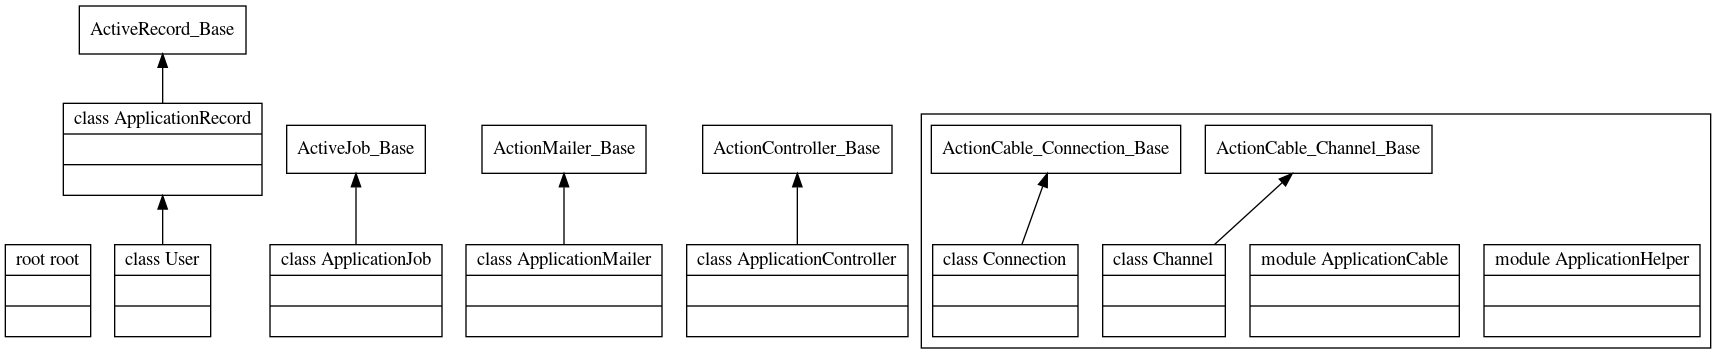
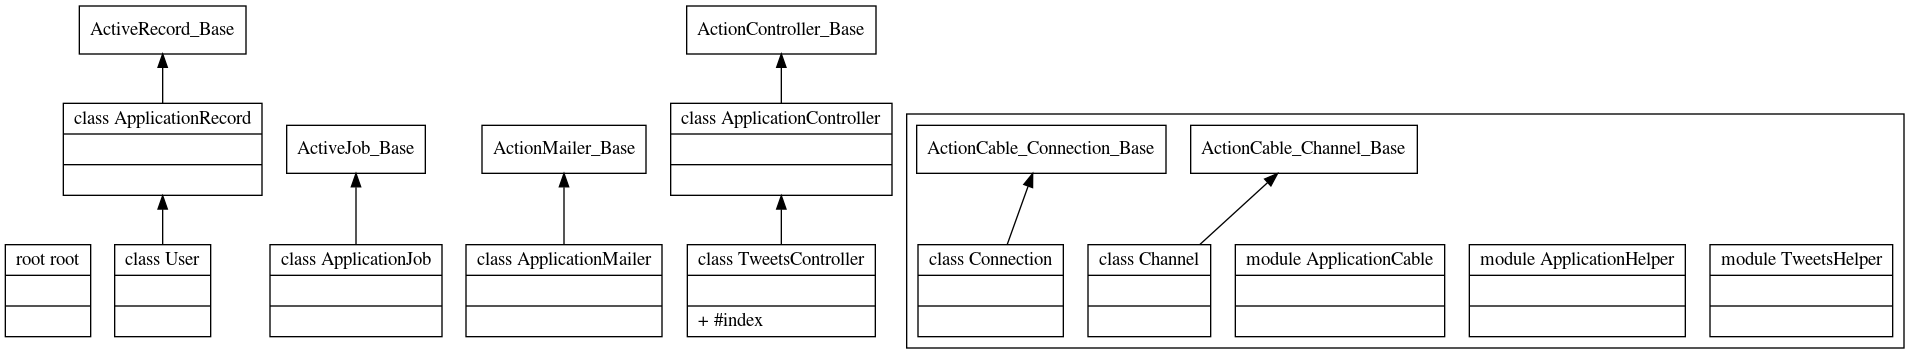
[feat]トップページの作成

diff --git a/app/assets/stylesheets/tweets.scss b/app/assets/stylesheets/tweets.scss
@@ -1,0 +1,3 @@
+// Place all the styles related to the tweets controller here.
+// They will automatically be included in application.css.
+// You can use Sass (SCSS) here: http://sass-lang.com/

diff --git a/spec/helpers/tweets_helper_spec.rb b/spec/helpers/tweets_helper_spec.rb
@@ -1,0 +1,15 @@
+require 'rails_helper'
+
+# Specs in this file have access to a helper object that includes
+# the TweetsHelper. For example:
+#
+# describe TweetsHelper do
+#   describe "string concat" do
+#     it "concats two strings with spaces" do
+#       expect(helper.concat_strings("this","that")).to eq("this that")
+#     end
+#   end
+# end
+RSpec.describe TweetsHelper, type: :helper do
+  pending "add some examples to (or delete) #{__FILE__}"
+end

diff --git a/config/initializers/assets.rb b/config/initializers/assets.rb
@@ -8,6 +8,8 @@ Rails.application.config.assets.version = '1.0'
 # Add Yarn node_modules folder to the asset load path.
 Rails.application.config.assets.paths << Rails.root.join('node_modules')
 
+Rails.application.config.assets.precompile += %w(application.js)
+
 # Precompile additional assets.
 # application.js, application.css, and all non-JS/CSS in the app/assets
 # folder are already added.

diff --git a/spec/controllers/tweets_controller_spec.rb b/spec/controllers/tweets_controller_spec.rb
@@ -1,0 +1,12 @@
+require 'rails_helper'
+
+RSpec.describe TweetsController, type: :controller do
+
+  describe "GET #index" do
+    it "returns http success" do
+      get :index
+      expect(response).to have_http_status(:success)
+    end
+  end
+
+end

diff --git a/config/routes.rb b/config/routes.rb
@@ -1,5 +1,5 @@
 Rails.application.routes.draw do
   devise_for :users
   # For details on the DSL available within this file, see https://guides.rubyonrails.org/routing.html
-  root to: 'application#hello'
+  root to: 'tweets#index'
 end

diff --git a/spec/views/tweets/index.html.erb_spec.rb b/spec/views/tweets/index.html.erb_spec.rb
@@ -1,0 +1,5 @@
+require 'rails_helper'
+
+RSpec.describe "tweets/index.html.erb", type: :view do
+  pending "add some examples to (or delete) #{__FILE__}"
+end

diff --git a/app/controllers/application_controller.rb b/app/controllers/application_controller.rb
@@ -1,5 +1,2 @@
 class ApplicationController < ActionController::Base
-  def hello
-    render html: "hello, world!"
-  end
 end

diff --git a/app/controllers/tweets_controller.rb b/app/controllers/tweets_controller.rb
@@ -1,0 +1,4 @@
+class TweetsController < ApplicationController
+  def index
+  end
+end

diff --git a/app/helpers/tweets_helper.rb b/app/helpers/tweets_helper.rb
@@ -1,0 +1,2 @@
+module TweetsHelper
+end
